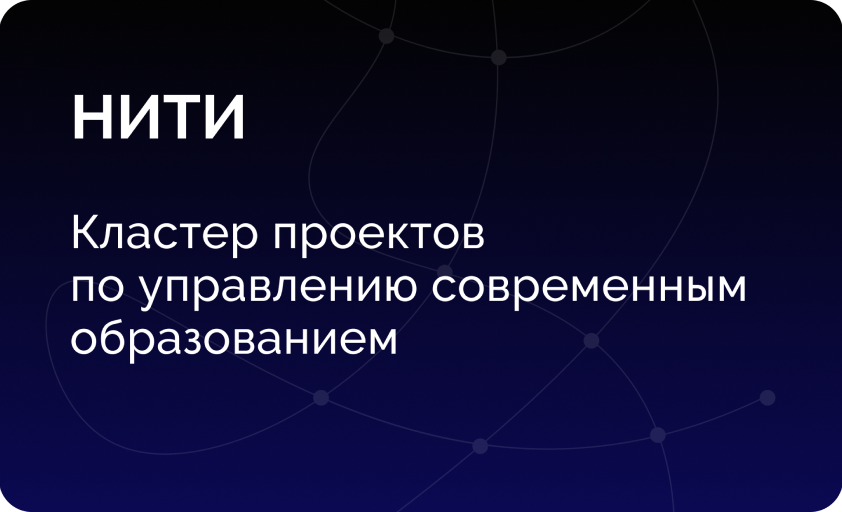
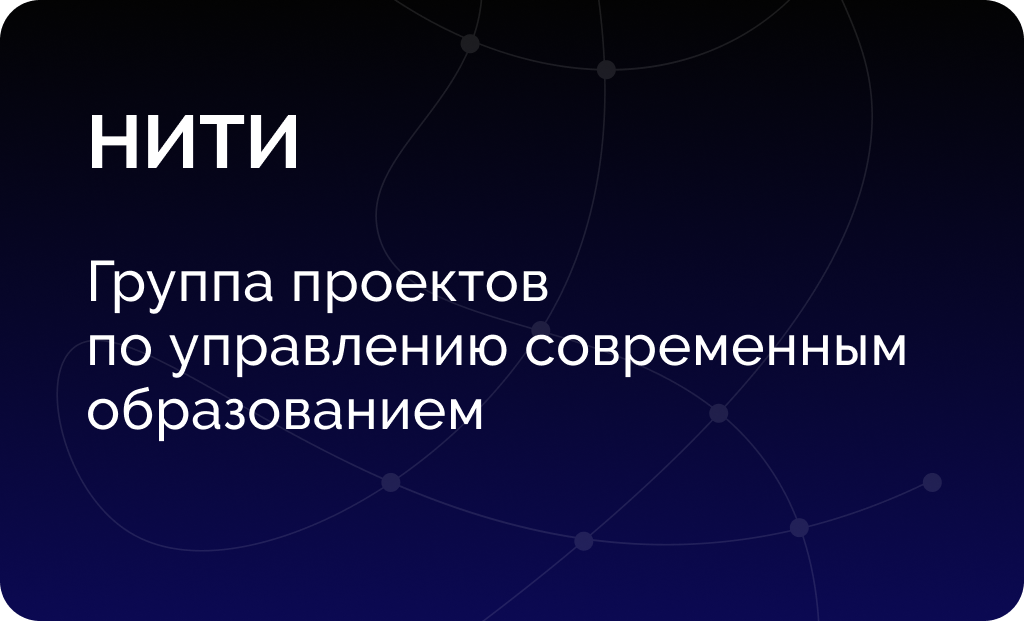
Убрать задачу/решение из модалок, обновить обложку НИТИ, исправить описание
- Удалить блок «Задача/Решение» из Slider.astro
- Заменить изображение первой плитки (threads.png)
- «Кластер» → «Группа» в описании проекта НИТИ

diff --git a/src/data/projects.ts b/src/data/projects.ts
@@ -24,7 +24,7 @@ export const projects: Project[] = [
   {
     id: 'project1',
     title: 'НИТИ',
-    description: 'Кластер проектов по управлению современным образованием',
+    description: 'Группа проектов по управлению современным образованием',
     audience:
       'менеджеры образования, управленцы, преимущественно женщины старше 40',
     slides: loadSlides('niti', [
